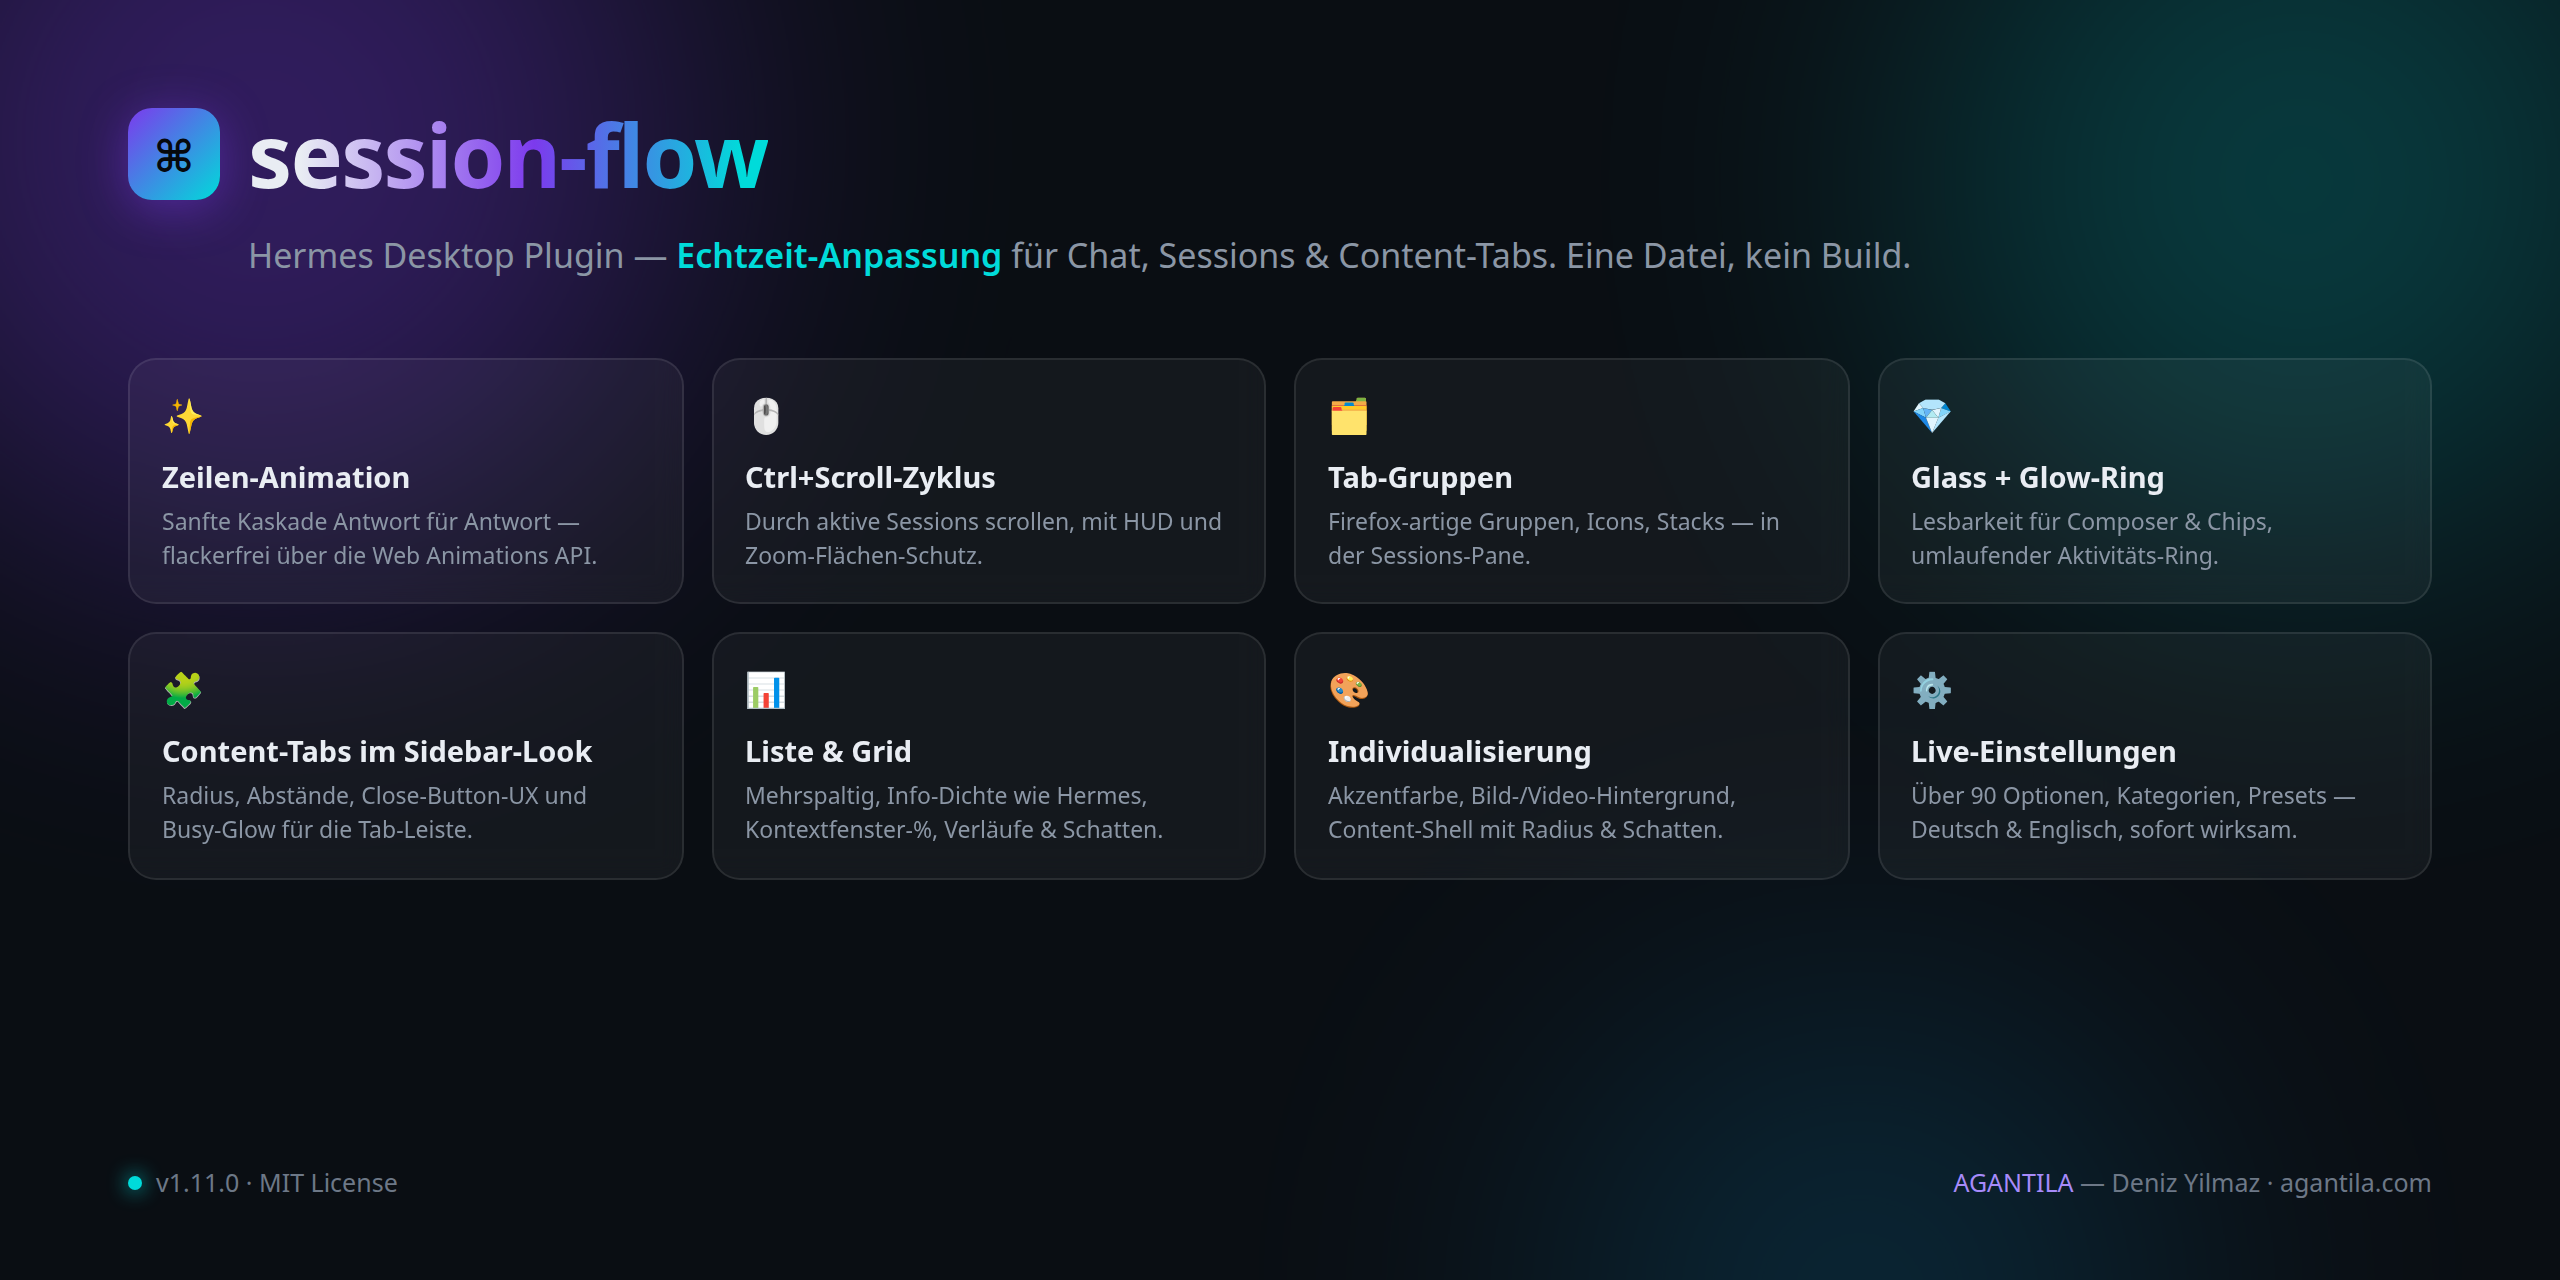
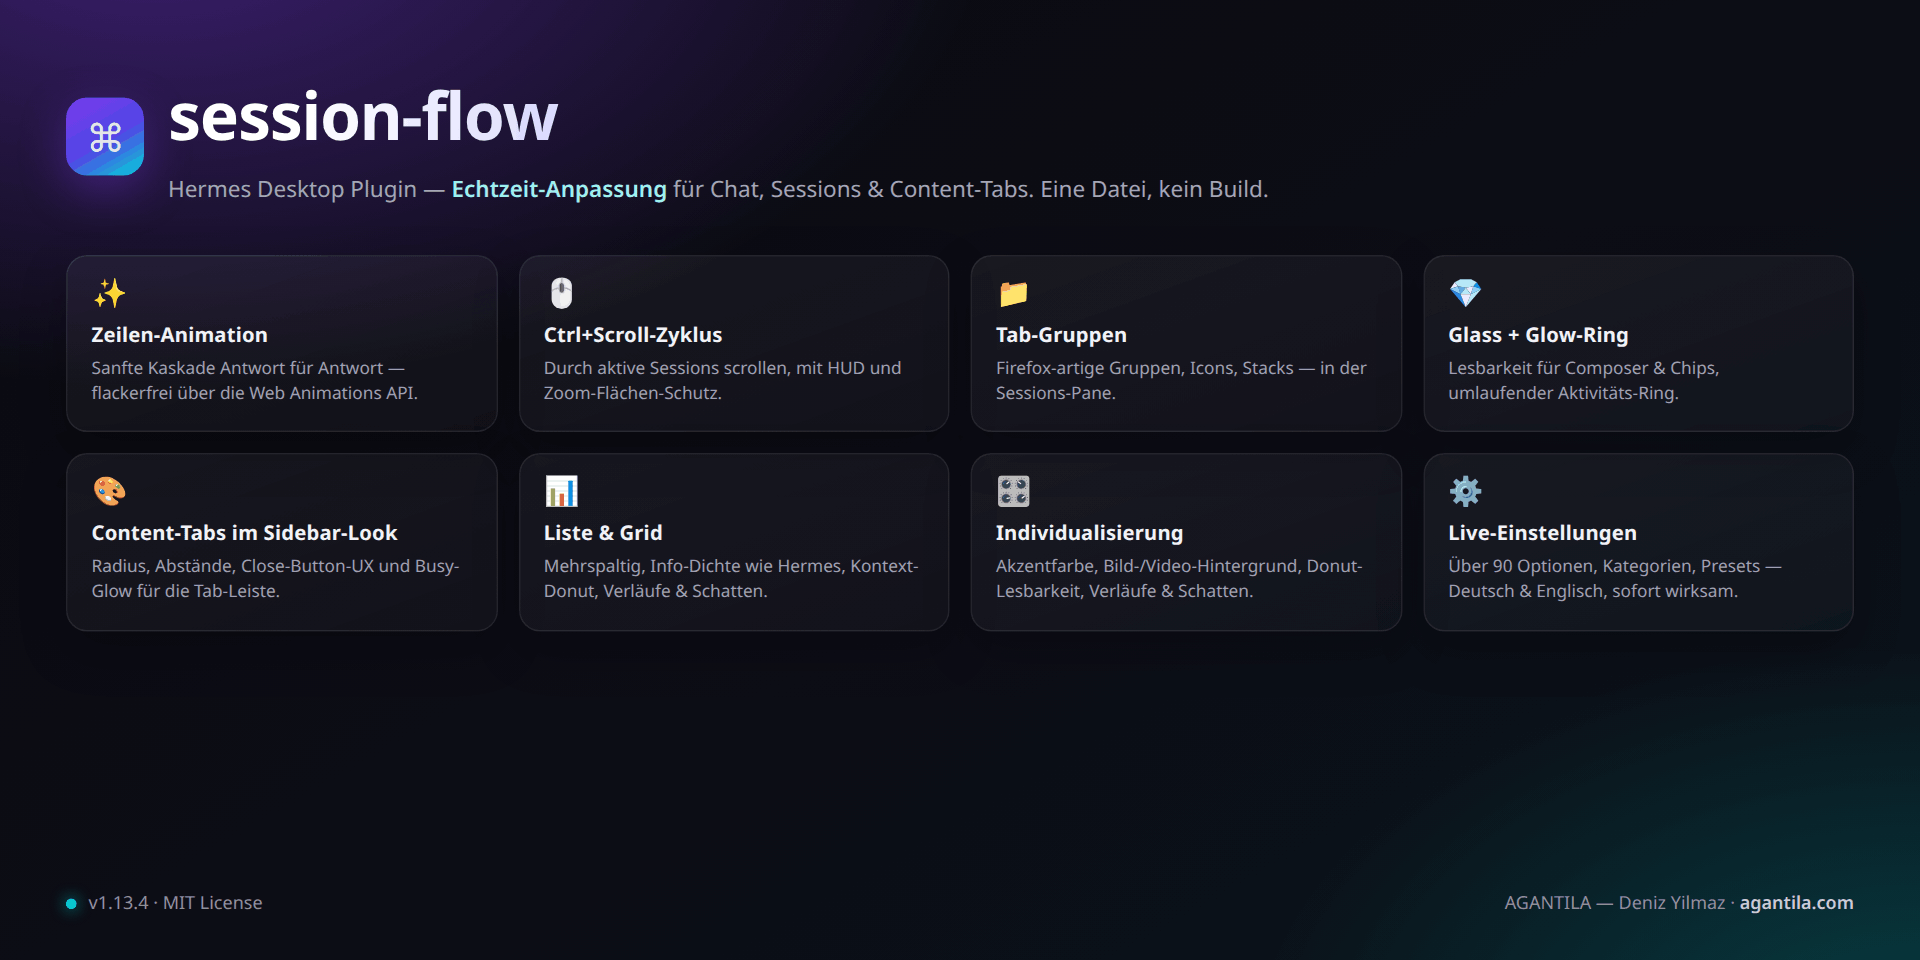
docs(sync): bring project folder in line with v1.13.4 for further development
- ROADMAP.md: status bumped to v1.13.4; added a 'recently shipped' reference section (list/grid parity, context donut, wallpaper anchor, status icon fix); new roadmap items (donut tuning, selectable status glyphs); recorded the removed content framing as an explicit design decision; extended the known-limits table (icon/colour vocabulary, pane anchors, donut with 3 digits)
- DEVELOPMENT.md: added the hard-won pitfalls to the conventions (never backticks inside the CSS template; Codicon has no ~spin marker -> use SfIcon; pane anchors are [data-chat-surface]/[data-tree-group], [data-pane-host] only exists for keep-alive panes; never amend while a debug marker is pending) plus two troubleshooting rows
- docs/overview.png: regenerated feature banner for v1.13.4 (drops the Content-Shell claim, donut wording), 1920x960, 256 colours, 158 KB (was 420 KB at v1.11.0)
- SETTINGS.md / README.md / README.de.md / docs/README.md: context gauge described as a donut incl. its position in list view; option table and style-test index updated
- tests/style-test.mjs: heading marks the framing section as removed

verify: check + render + style tests green; repo == installed plugin (md5)

diff --git a/docs/ROADMAP.md b/docs/ROADMAP.md
@@ -1,10 +1,29 @@
 # Roadmap & bekannte Grenzen
 
-Stand: v1.11.0 (2026-10-04). Reihenfolge = grobe Priorität, nichts davon ist
+Stand: v1.13.4 (2026-10-04). Reihenfolge = grobe Priorität, nichts davon ist
 zugesagt.
+
+## Zuletzt umgesetzt (Referenz für Weiterentwicklung)
+
+- **Liste/Grid-Parität** (v1.12.0): Ein Design-Satz trifft beide Ansichten
+  (Flächen via `:where()` null-spezifisch); Auswahl-Tönung und Live-Zustand
+  liegen als **Layer über** dem Zeilen-Verlauf.
+- **Kontext-Donut** (v1.13.3): Füllstand als Ring mit ausgespartem Loch
+  (`::before` + radiale Maske, `isolation:isolate`), mehrlagiger Text-Schatten,
+  in der Listen-Ansicht ganz rechts am Ende.
+- **Chat-Hintergrund wirklich sichtbar** (v1.13.2): Layer liegt an der
+  Chat-Surface (`[data-chat-surface]`, hat `isolate`), nicht mehr am Pane-Host;
+  Geltungsbereich „alle" inkl. Zonen ohne Chat-Surface.
+- **Arbeits-Indikator repariert** (v1.13.4): Codicon-Namen ohne `~spin`-Marker
+  (die App erwartet den `spinning`-Prop) — das Icon rendert sonst 0×0 und ist
+  unsichtbar.
 
 ## Geplant / Ideen
 
+- **Donut-Feinschliff**: Ringdicke/Lochgröße als Option, einstellbare
+  Warnschwellen (statt fix 70/90 %) und alternatives Label (`used/max`).
+- **Status-Glyphen wählbar**: Icon je Status selbst festlegen (statt fester
+  Zuordnung in `ACTIVITY_GLYPHS`).
 - **Presets für weitere Sektionen**: Ein-Klick-Looks auch für „Glass" und
   „Chat-Animation" (gleiche Machart wie die UI-Tabs-Presets).
 - **Einstellungen exportieren/importieren**: Sektion (oder alles) als JSON —
@@ -17,11 +36,13 @@ zugesagt.
   Code-Blöcke), Kaskade auch für Tool-Karten (opt-in).
 - **Glow-Feintuning**: optionaler Halo/Weichzeichner am Ring, Preset-Farben
   (z. B. „Erfolg/Fehler"-Glow bei fertig/Fehler).
-- **Kontext-Anzeige-Feinschliff**: einstellbare Warnschwellen (statt fix 70/90 %)
-  und alternatives Label-Format (`used/max` statt Prozent).
 
 ## Bewusst so gelassen (Design-Entscheidungen)
 
+- **Keine Content-Abgrenzung** (in v1.13.3 auf Nutzerwunsch entfernt): Option,
+  Schema-Keys, Variablen, Injektion, CSS und i18n sind vollständig raus; die
+  Tests sichern, dass die Altwerte inert bleiben. Nicht wieder einbauen, ohne
+  dass es ausdrücklich gewünscht ist.
 - **Animation nur auf Assistant-Markdown.** User-Nachrichten und Tool-Karten
   bleiben unangetastet — weniger Flackern, klare Lesbarkeit.
 - **Kein eigener Status-Punkt.** Der Core-`SessionStatusDot` bleibt die einzige
@@ -42,3 +63,6 @@ zugesagt.
 | Modell-Pill-Chips | Der Chips-Scope trifft nur den Primär-Chat (Marker fehlt in Tiles). |
 | HUD-Modus | Dort gewinnt die app-eigene Gestaltung (Filter-Gate). |
 | Glow an Tabs | Busy-Erkennung basiert auf Gateway-Events + Poll (bis ~2 s Verzögerung). |
+| Status-Icons | Namen/Farben sind an die Status-Vokabel der App gekoppelt (`--ui-accent`, `--destructive`, `--ui-success`). |
+| Pane-Anker | `[data-pane-host]` tragen nur Keep-Alive-Panes (u. a. Plugin-Panes). Chat/Arbeitsbereich hängen an `[data-chat-surface]` bzw. `[data-tree-group]` — pane-weite Regeln dort verankern. |
+| Kontext-Donut | Der Wert sitzt im Loch; bei drei Stellen (100 %) berührt er den Ring (Text-Schatten hält ihn lesbar). |

diff --git a/docs/DEVELOPMENT.md b/docs/DEVELOPMENT.md
@@ -209,6 +209,23 @@ schlägt `npm run check` an.
 - Timer/Listener via `ctx.setTimeout`/`ctx.setInterval`/`ctx.addEventListener`
   oder manuell in `ctx.onDispose` abräumen (DOM-Observer, `<style>`-Tags, HUD).
 - Im `register()` nur registrieren; Waiting/Fetching asynchron anstoßen.
+- **Niemals Backticks im CSS-Template** — auch nicht als Markdown-Zitat in einem
+  CSS-Kommentar: der Backtick beendet das Template-Literal. Symptom im Log:
+  `SyntaxError: Invalid left-hand side expression in postfix operation`
+  (die Zeilenangabe zeigt auf den Template-Start, nicht auf den Backtick).
+  Vor jedem Save `npm run check` laufen lassen.
+- **Icon-Komponente der App:** `Codicon` erwartet `name` OHNE Marker plus den
+  `spinning`-Prop. Ein Name wie `sync~spin` erzeugt die unbekannte Klasse
+  `codicon-sync~spin` → Icon rendert 0×0 (unsichtbar). Immer `SfIcon` benutzen:
+  trennt den Marker ab, setzt den Prop und zusätzlich die Fallback-Klasse
+  `sf-icon-spin` (dreht auch mit SDK-Builds ohne den Prop).
+- **Anker für pane-weite Regeln:** `[data-chat-surface]` (Chat-Surface, hat
+  `isolate`) und `[data-tree-group]` (Zone). `[data-pane-host]` existiert NUR
+  für Keep-Alive-Panes — Regeln dort wirken im normalen Chat gar nicht.
+- **Temporäre Debug-Ausgaben** (`console.error`) vor dem Commit entfernen und
+  `git commit --amend` nie in derselben Runde wie einen Marker-Save ausführen
+  (Tool-Reihenfolge nicht garantiert) — danach mit
+  `git show HEAD:plugin.js | grep -c <marker>` prüfen.
 
 ## Render-Smoketest (`npm test`)
 
@@ -266,6 +283,8 @@ Screenshot zur Sichtprüfung: `SF_STYLE_SHOTS=<ordner> npm run test:style`.
 | Glass-Effekt fehlt | `glass.enabled`? Bereichs-Toggles? System-„Transparenz reduzieren" aktiv (Blur wird dann global genullt)? Modell-Pill gibt es nur im Primär-Chat |
 | Animation passiert nichts | `prefers-reduced-motion` aktiv? Animation in den Einstellungen aus? Nur Assistant-Nachrichten werden animiert |
 | Strg+Scroll reagiert nicht | Fokus in Zoom-Fläche (Bild/Editor)? Andere App-Sektion? `wheel.enabled`? |
+| Status-Icon/Indikator unsichtbar | Icon-Name enthält `~spin` → unbekannte Klasse, Icon 0×0. Prüfen: `el.firstElementChild.getBoundingClientRect()` muss ~13–14 px sein, `innerHTML` zeigt die Klassen wörtlich. Fix: über `SfIcon` rendern. |
+| Design-Regel wirkt im Chat nicht | Selektor zielt auf `[data-pane-host]` (nur Keep-Alive-Panes). Chat: `[data-chat-surface]`, Zonen: `[data-tree-group]`. |
 | Rahmen: „duplicate id" | Zweite Kopie unter anderem Ordner mit gleicher id (z.B. Unified-Package) — nur eine Installation behalten |
 
 ## Roadmap-Ideen

diff --git a/docs/README.md b/docs/README.md
@@ -21,4 +21,4 @@ entwicklerorientiert; die Nutzer-Doku steht im Root-README.
 | [../SECURITY.md](../SECURITY.md) | Sicherheitsmodell & Meldewege. |
 | [../scripts/check.mjs](../scripts/check.mjs) | Pre-Flight: Syntaxcheck + i18n-Key-Audit (`npm run check`). |
 | [../tests/render-test.mjs](../tests/render-test.mjs) | **Render-Smoketest** (`npm test`): rendert Sessions-Pane & Einstellungsseite headless gegen SDK-Stubs — prüft UI-Verhalten (u. a. Listen-Begrenzung) ohne laufende App. |
-| [../tests/style-test.mjs](../tests/style-test.mjs) | **Computed-Style-Test** (`npm run test:style`, optional): prüft die berechneten Styles am echten Chromium (Playwright) — Liste-vs-Grid-Parität, Alpha-Verläufe, Auswahl-/Hover-Stufen, Kontext-Pie, Live-Glow-Ring, Hover-Anhebung. Skip ohne Playwright. |
+| [../tests/style-test.mjs](../tests/style-test.mjs) | **Computed-Style-Test** (`npm run test:style`, optional): prüft die berechneten Styles am echten Chromium (Playwright) — Liste-vs-Grid-Parität, Alpha-Verläufe, Auswahl-/Hover-Stufen, Kontext-Donut (Ring + Loch), Live-Glow-Ring, Hover-Anhebung, Hintergrund-Layer. Skip ohne Playwright. |

diff --git a/README.de.md b/README.de.md
@@ -121,7 +121,7 @@ die aktuelle. Die UI-Tabs-Sektion bietet zusätzlich Ein-Klick-Presets
   Ignorier-Selektoren (CSS).
 - **Session-Tabs**: Dichte (kompakt/bequem), Ansicht (Liste/Grid — Spalten,
   Kartenbreite, Abstand, Titel-Zeilen, Vorschau, Info-Dichte wie Hermes,
-  Text oben ausgerichtet, kompaktes Kontextfenster als **Torten-Diagramm** für
+  Text oben ausgerichtet, kompaktes Kontextfenster als **Donut** (Ring mit Loch) für
   Live-Sessions, max. sichtbare Einträge je Gruppe mit „Mehr anzeigen“),
   Zeilen-/Karten-Design (Hintergrund-Verlauf, Schlagschatten, Titel-Verlauf,
   Auswahl-Tönung/-Kontur/-Schatten inkl. Hover-Stufe, Live-Glow mit dem

diff --git a/README.md b/README.md
@@ -111,7 +111,7 @@ presets (“Sidebar-Look”, “Minimal”, “Hermes-Standard”).
   HUD on/off + duration, ignore selectors (CSS).
 - **Session-Tabs**: density (compact/cozy), view (list/grid — columns, card
   width, gap, title lines, preview, info density like Hermes, top-aligned
-  text, compact context-window **pie** for live sessions, max visible entries
+  text, compact context-window **donut** for live sessions, max visible entries
   per group with “show more”), row/card design
   (gradient background, drop shadows, gradient titles, selected-state
   tint/outline/shadow incl. hover strength, live glow with the app’s
